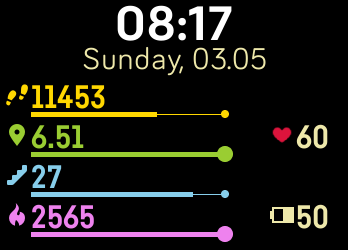
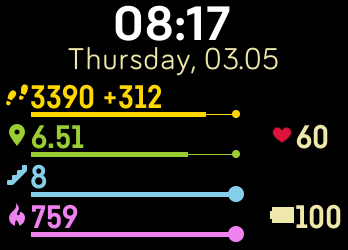
0.3 release changes

diff --git a/AcidClock-export/app/index.js b/AcidClock-export/app/index.js
@@ -22,6 +22,8 @@ let screenshotMode = false;
 var dateFormat = "DD.MM";
 var distanceUnit = "m";
 var language = "en"
+var isShowStepsProgress = true;
+var isShowDistanceUnit = false;
 
 let getProgressEl = function(prefix) {  
   let containerEl = document.getElementById(prefix);
@@ -45,7 +47,45 @@ let goalTypes = [
   "activeMinutes"
 ];
 
+let getCurrentStepsOnHourStart = function() {
+  let now = new Date();
+  if (now.getHours() === 0 && now.getMinutes() === 0) {
+    // workaround for a hypothetically possible race condition at 00:00
+    return 0;
+  }
+  return today.local["steps"] || 0;
+}
+
 let progressEls = [];
+
+let stepsByMinute = [];
+var stepsOnHourStart = getCurrentStepsOnHourStart();
+
+var getNextHourStartsInMs = function() {
+  let now = new Date();
+  return 3600001 - now.getMinutes() * 60000 - now.getSeconds() * 1000 - now.getMilliseconds();
+}
+
+var stepsProgressTimeout = null;
+
+var updateStepsOnHourStartAndScheduleNextUpdate = function() {
+  clearTimeout(stepsProgressTimeout); 
+  stepsOnHourStart = getCurrentStepsOnHourStart();
+  resetProgressPrevState();
+  drawAllProgress();
+  stepsProgressTimeout = setTimeout(updateStepsOnHourStartAndScheduleNextUpdate, getNextHourStartsInMs()); 
+}
+
+let initStepsProgressUpdates = function() { 
+  if (!stepsProgressTimeout) {
+    updateStepsOnHourStartAndScheduleNextUpdate();
+  }
+}
+
+let clearStepsProgressUpdates = function() {
+  clearTimeout(stepsProgressTimeout);  
+  stepsProgressTimeout = null;
+}
 
 for (var i=0; i < goalTypes.length; i++) {
   var goalType = goalTypes[i];
@@ -61,7 +101,6 @@ let isLongScreen = screenHeight >= 300;
 if (!isLongScreen) {
   progressEls[4].container.style.display = "none";
 }
-
 
 let timeEl = document.getElementById("time");
 let dateEl = document.getElementById("date"); 
@@ -86,6 +125,42 @@ let screenWidth = root.width
 let progressWidth = progressEls[0].container.getElementsByClassName("bg")[0].getBBox().width;
 let batFillWidth = batBody.width - 4;
 
+let getStepsProgress = function(stepsCurrent) {
+  if (screenshotMode) {
+    return 312;
+  }
+  return Math.max(0, stepsCurrent - stepsOnHourStart);
+}
+
+let getDistanceDisplayValue = function(actual) {
+  var displayValue = actual;
+    if (screenshotMode) {
+      displayValue = "6.51";
+    } else if (distanceUnit === "km") {
+      displayValue = (actual / 1000.).toPrecision(3);
+    } else if (distanceUnit === "ft") {
+      displayValue = Math.round(actual * 3.2808);      
+    } else if (distanceUnit === "mi") {
+      displayValue = (actual / 1609.344).toPrecision(3);      
+    } else if (distanceUnit === "yd") {
+      displayValue = Math.round(actual * 1.0936);      
+    }   
+  
+    if (isShowDistanceUnit) {
+      displayValue = displayValue + " " + distanceUnit;
+    }
+    return displayValue;
+}
+
+let getStepsDisplayValue = function(actual) { 
+  if (isShowStepsProgress) {   
+    let stepsProgress = getStepsProgress(actual);    
+    return actual + " +" + stepsProgress;    
+  } else {
+    return actual;
+  }
+}
+
 let drawProgress = function(progressEl) {
   let prefix = progressEl.prefix;
   
@@ -103,9 +178,9 @@ let drawProgress = function(progressEl) {
   }
   
   if (screenshotMode) { 
-    progress = 66 + 100 * Math.random();
+    progress = 55 + 66 * Math.random();
   }
-    
+     
   var isGoalReached = false;
   
   if (progress >= 100) {
@@ -121,18 +196,11 @@ let drawProgress = function(progressEl) {
   progressEl.progress.width =  Math.floor(progressWidth * progress / 100);  
   
   var displayValue = actual;
-  if (prefix === "distance" && actual) {
-    
-    if (screenshotMode) {
-      displayValue = "6.51";
-    } else if (distanceUnit === "km") {
-      displayValue = (actual / 1000.).toPrecision(3);
-    } else if (distanceUnit === "ft") {
-      displayValue = Math.round(actual * 3.2808);      
-    } else if (distanceUnit === "mi") {
-      displayValue = (actual / 1609.344).toPrecision(3);      
-    }
-  }  
+  if (prefix === "distance" && actual) {    
+    displayValue = getDistanceDisplayValue(actual);
+  } else if (prefix === "steps" && actual) {    
+    displayValue = getStepsDisplayValue(actual);
+  }
   progressEl.count.text = displayValue;
 }
 
@@ -195,7 +263,6 @@ var resetProgressPrevState = function() {
 
 let hrm = new HeartRateSensor();
 
-var isHeartbeatAnimation=true;
 var isAmPm = false;
 
 var hrmAnimationPhase = false;
@@ -204,24 +271,13 @@ var prevHrmRate = null;
 
 var hrmRate = null;
 
-var hrAnimated = false;
 var hrAnimatedInterval = null;
-let initHrInterval = function() {
-  clearInterval(hrAnimatedInterval);
-  hrAnimatedInterval = setInterval(animateHr, 30000/hrmRate);
-}
 
 var isFastProgress = false;
 var fastProgressInterval = null;
 let initFastProgressInterval = function() {
   clearInterval(fastProgressInterval);
   fastProgressInterval = setInterval(drawAllProgress, 5000);
-}
-
-let stopHrAnimation = function() {
-  hrAnimated = false;
-  clearInterval(hrAnimatedInterval);
-  hrIconDiastoleEl.style.display = "inline";
 }
 
 let hideHr = function() {
@@ -231,47 +287,52 @@ let hideHr = function() {
    hrEl.style.display = "none";
 }
 
-let animateHr = function() {   
-    if (hrmAnimationPhase) {
-      hrIconDiastoleEl.style.display = "none";
-    } else {
-      hrIconDiastoleEl.style.display = "inline";  
-    }
-  
-    hrmAnimationPhase =!hrmAnimationPhase;
-  
-    if (prevHrmRate != hrmRate) {
-      clearInterval(hrAnimatedInterval);
-      if (isHeartbeatAnimation) {
-        prevHrmRate = hrmRate;
-        initHrInterval();
-      }
-    }     
-    prevHrmRate = hrmRate;
-}
-
-let drawHrm = function() {  
+let showHr = function() {  
+  // updating HRM readings
   hrmRate = hrm.heartRate;
   if (hrmRate && display.on) {
+    // displaying HRM readings
     hrCountEl.text = hrmRate;  
     if (!prevHrmRate) {
+      //this is the first showHr() call after hideHr() - showing the element and starting the animation
       hrEl.style.display = "inline";    
-    }
-    if (!hrAnimated && isHeartbeatAnimation) {
-      clearInterval(hrAnimatedInterval);   
-      prevHrmRate = hrmRate;
-      initHrInterval();
-      hrAnimated = true;      
+      animateHr();
     }
   } else {
     hideHr();
   }
 }
 
-drawHrm();
-hrm.onreading = drawHrm;
-hrm.start();
+let initHrInterval = function() {
+  clearInterval(hrAnimatedInterval);
+  hrAnimatedInterval = setInterval(animateHr, 30000/hrmRate);
+}
 
+let stopHrAnimation = function() {
+  clearInterval(hrAnimatedInterval);
+  hrIconDiastoleEl.style.display = "inline";
+}
+
+let animateHr = function() {   
+    //animating a single systole or diastole depending on the animation phase
+    if (hrmAnimationPhase) {
+      hrIconDiastoleEl.style.display = "none";
+    } else {
+      hrIconDiastoleEl.style.display = "inline";  
+    }  
+    hrmAnimationPhase =!hrmAnimationPhase;
+  
+    if (prevHrmRate != hrmRate) {
+      //HRM readings have been changed: need to ajust and restart animation interval
+      clearInterval(hrAnimatedInterval);      
+      prevHrmRate = hrmRate;
+      initHrInterval();      
+    }     
+    prevHrmRate = hrmRate;
+}
+
+hrm.onreading = showHr;
+hrm.start();
 
 let drawBat = function() {
   let level = battery.chargeLevel;
@@ -287,11 +348,8 @@ let applyState = function() {
     } else {
       clearInterval(fastProgressInterval);
     }
-
     if (!hrmRate) {
       hideHr()    
-    } else if(!isHeartbeatAnimation) {
-      stopHrAnimation();
     }
     drawAllProgress();
   } else {
@@ -304,9 +362,10 @@ let applyState = function() {
 display.onchange = applyState;
 
 clock.ontick = (evt) => {  
-  drawTime(evt.date); 
+  let now = evt.date;
+  drawTime(now); 
   drawAllProgress();
-  drawBat();  
+  drawBat();
 }
 
 // SETTINGS
@@ -321,10 +380,10 @@ let applySettings = function() {
   }
   
   try {
-    dateFormat = (settings.hasOwnProperty("dateFormat") && settings.dateFormat.values) ? settings.dateFormat.values[0].value : "DD.MM";
-    distanceUnit = (settings.hasOwnProperty("distanceUnit") && settings.distanceUnit.values) ? settings.distanceUnit.values[0].value : "m";
+      dateFormat = (settings.hasOwnProperty("dateFormat") && settings.dateFormat.values) ? settings.dateFormat.values[0].value : "DD.MM";
+      distanceUnit = (settings.hasOwnProperty("distanceUnit") && settings.distanceUnit.values) ? settings.distanceUnit.values[0].value : "m";
 
-    language = (settings.hasOwnProperty("language") && settings.language.values) ? settings.language.values[0].value : "en";
+      language = (settings.hasOwnProperty("language") && settings.language.values) ? settings.language.values[0].value : "en";
     
     if (settings.hasOwnProperty("timeColor") && settings.timeColor) {
       timeEl.style.fill = settings.timeColor;
@@ -336,11 +395,21 @@ let applySettings = function() {
 
     if (settings.hasOwnProperty("isFastProgress")) {
       isFastProgress = !!settings.isFastProgress;    
+    }    
+    
+    if (settings.hasOwnProperty("isShowStepsProgress")) {
+      isShowStepsProgress = !!settings.isShowStepsProgress;
+    } 
+    
+    if (isShowStepsProgress) {
+      initStepsProgressUpdates();
+    } else {
+      clearStepsProgressUpdates();
     }
-
-    if (settings.hasOwnProperty("isHeartbeatAnimation")) {
-      isHeartbeatAnimation = !!settings.isHeartbeatAnimation; 
-    }       
+     
+    if (settings.hasOwnProperty("isShowDistanceUnit")) {
+      isShowDistanceUnit = !!settings.isShowDistanceUnit; 
+    }   
     
     if (settings.hasOwnProperty("isAmPm")) {
       isAmPm = !!settings.isAmPm; 
@@ -403,7 +472,7 @@ function loadSettings() {
   } catch (ex) {
     console.log(ex);
     var defaults = {
-      isHeartbeatAnimation: true,
+      isShowStepsProgress: true,
       isFastProgress: false,
       language: 'en'
     };    

diff --git a/AcidClock-export/settings/index.jsx b/AcidClock-export/settings/index.jsx
@@ -94,12 +94,18 @@ function mySettings(props) {
         {name:"kilometers", value:"km"},
         {name:"feet", value:"ft"},
         {name:"miles", value:"mi"},
+        {name:"yards", value:"yd"}          
       ]}
       />
       
       <Toggle
-         settingsKey="isHeartbeatAnimation"
-         label="Heartbeat animation"
+         settingsKey="isShowDistanceUnit"
+         label="Show Distance Unit label"
+      />
+            
+      <Toggle
+         settingsKey="isShowStepsProgress"
+         label="Show steps per current hour"
       />
       
       <Toggle

diff --git a/AcidClock-export/resources/styles.css b/AcidClock-export/resources/styles.css
@@ -8,7 +8,7 @@
   y: 0;
   width:100%;
   height:100%;
-  fill:black;
+  fill: black;
 }
 
 #time {
@@ -89,17 +89,17 @@
   x:26;
   y:31;
   height: 1;
-  width: 62%-24;
+  width: 65%-24;
 }
 
 .tgt-no {
-  cx: 62%+5;
+  cx: 65%+5;
   cy: 31;
   r: 4;
 }
 
 .tgt-yes {
-  cx: 62%+5;
+  cx: 65%+5;
   cy: 31;
   r: 8; 
   display: none;
@@ -116,7 +116,7 @@
   font-size: 32;
   x: 26;
   y: 25;
-  text-length: 10; 
+  text-length: 15; 
   font-family: Fabrikat-Bold;
 }
 
